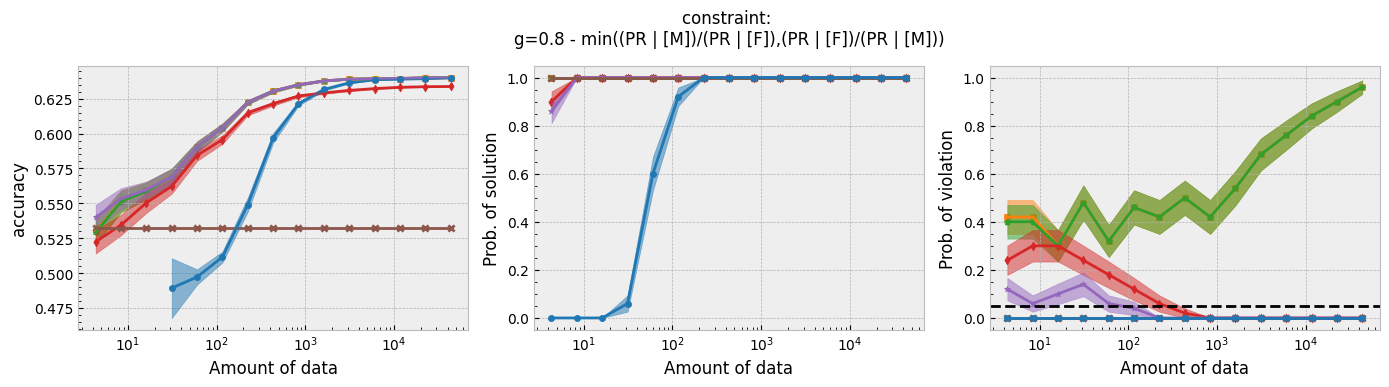
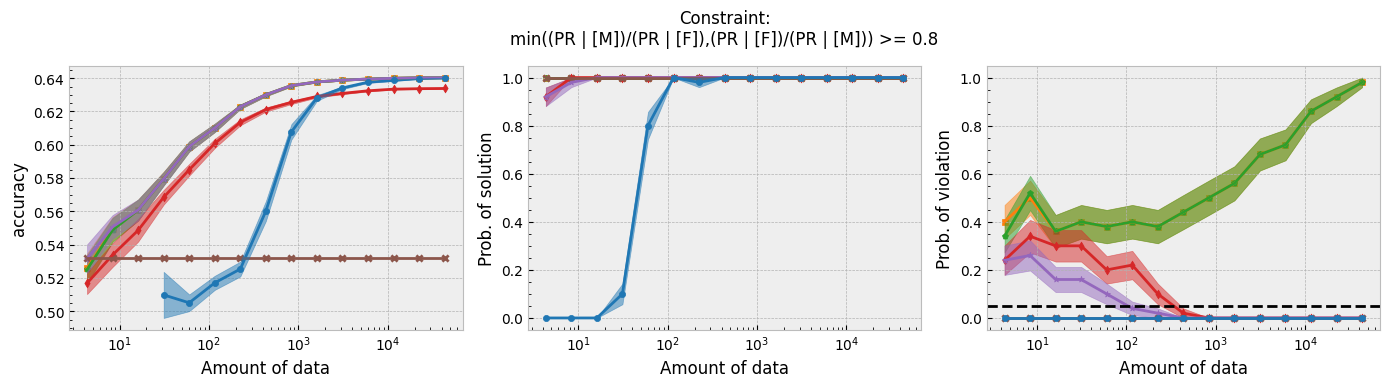
use inequality instead of g def for disparate impact

diff --git a/_tutorials/science_GPA_tutorial.md b/_tutorials/science_GPA_tutorial.md
@@ -132,7 +132,7 @@ if __name__ == '__main__':
         os.makedirs(save_dir,exist_ok=True)
         # Define behavioral constraints
         if constraint_name == 'disparate_impact':
-            constraint_strs = ['0.8 - min((PR | [M])/(PR | [F]),(PR | [F])/(PR | [M]))'] 
+            constraint_strs = ['min((PR | [M])/(PR | [F]),(PR | [F])/(PR | [M])) >= 0.8'] 
         elif constraint_name == 'demographic_parity':
             constraint_strs = ['abs((PR | [M]) - (PR | [F])) <= 0.2']
         elif constraint_name == 'equalized_odds':
